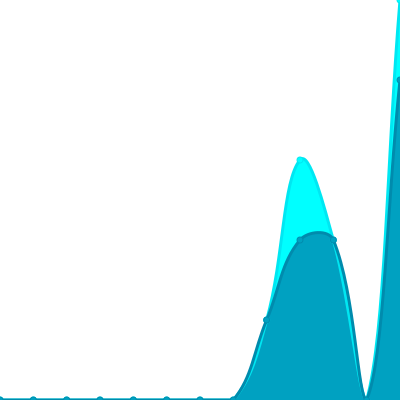
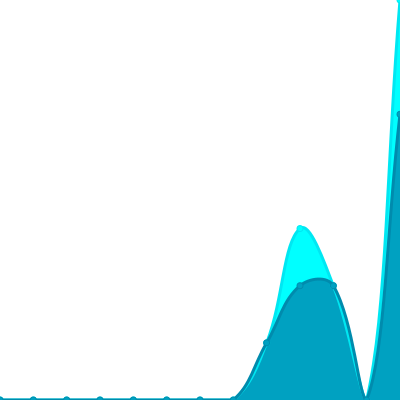
Update views

Changed region(s): [[0.57, 0.39, 0.93, 0.99], [0.96, 0.18, 1.0, 0.66], [0.93, 0.69, 0.96, 0.9]]

diff --git a/readme/658716039/year.md b/readme/658716039/year.md
@@ -23,10 +23,10 @@
 			<code>2026/10/1</code>
 		</td>
 		<td>
-			<code>4</code>
+			<code>5</code>
 		</td>
 		<td>
-			<code>5</code>
+			<code>7</code>
 		</td>
 	</tr>
 	<tr>
@@ -164,7 +164,7 @@
 </table>
 
 </details>
-<small><i>Last updated on 2026/10/29 5:22 AM UTC</i></small>
+<small><i>Last updated on 2026/10/29 12:43 PM UTC</i></small>
 
 ## ✂Copy and 📋 Paste
 ### SVG Badge

diff --git a/README.md b/README.md
@@ -69,7 +69,7 @@ The project created and maintained by [gayanvoice](https://github.com/gayanvoice
 	</tr>
 </table>
 
-<small><i>Last updated on 2026/10/29 5:22 AM UTC</i></small>
+<small><i>Last updated on 2026/10/29 12:44 PM UTC</i></small>
 
 ## ✂Copy and 📋 Paste
 ### Total Views Badge

diff --git a/readme/1013951127/year.md b/readme/1013951127/year.md
@@ -164,7 +164,7 @@
 </table>
 
 </details>
-<small><i>Last updated on 2026/10/29 5:22 AM UTC</i></small>
+<small><i>Last updated on 2026/10/29 12:43 PM UTC</i></small>
 
 ## ✂Copy and 📋 Paste
 ### SVG Badge

diff --git a/readme/891247015/year.md b/readme/891247015/year.md
@@ -164,7 +164,7 @@
 </table>
 
 </details>
-<small><i>Last updated on 2026/10/29 5:22 AM UTC</i></small>
+<small><i>Last updated on 2026/10/29 12:44 PM UTC</i></small>
 
 ## ✂Copy and 📋 Paste
 ### SVG Badge
